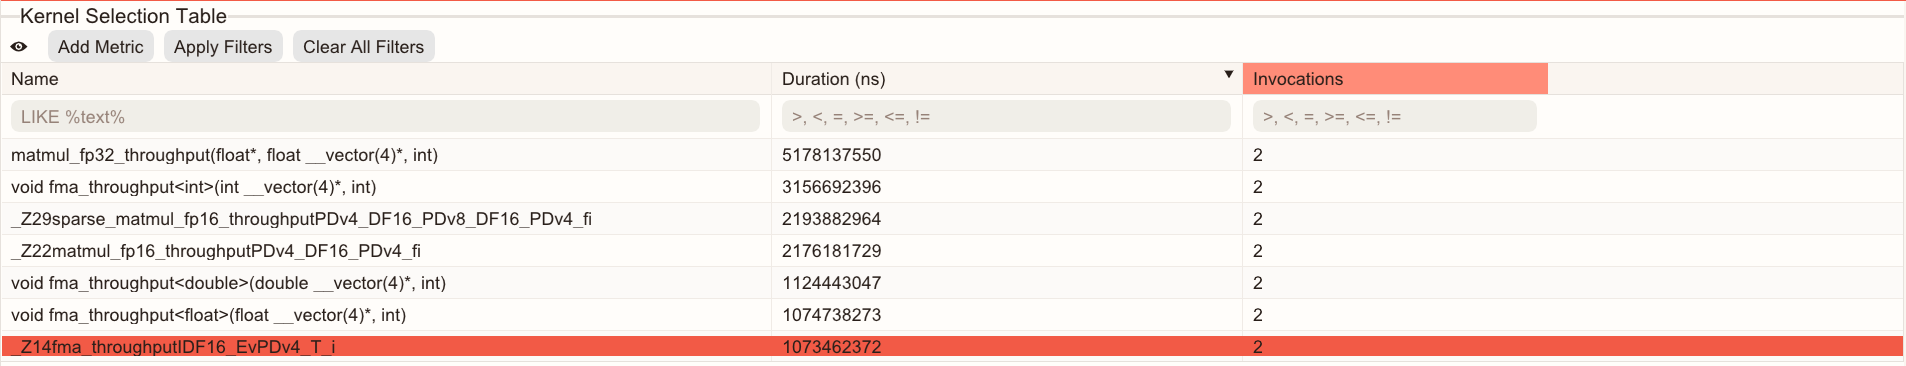
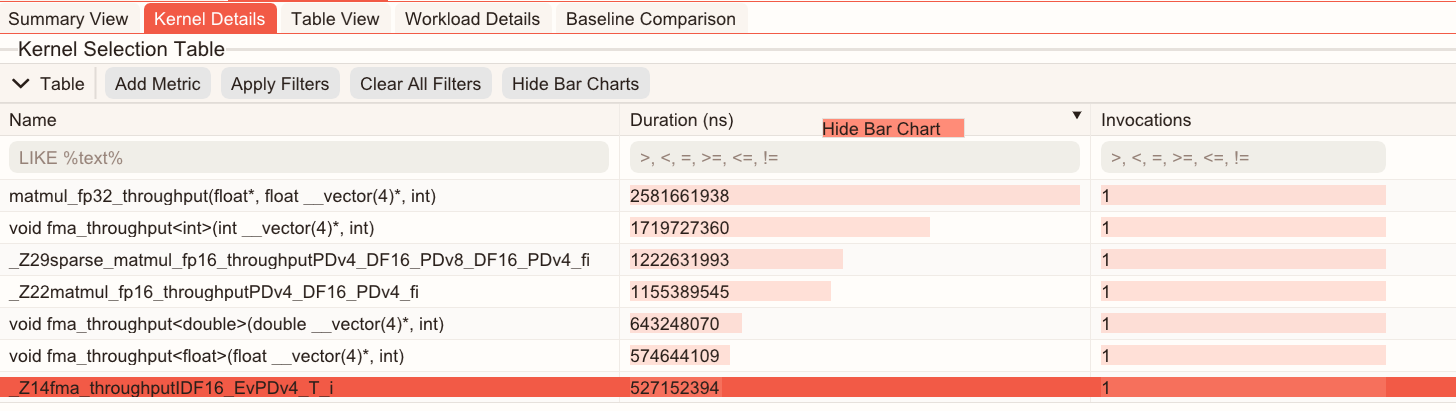
beta-0.4.0 changes

diff --git a/docs/how-to/view-analysis.rst b/docs/how-to/view-analysis.rst
@@ -41,8 +41,8 @@ Summary View
 
 The **Summary View** displays a high-level overview of the captured data. 
 
-Table
------
+Summary View -- Table
+---------------------
  
 The table in **Summary View** lists the top 10 longest-running kernels sorted by Total Execution Time. 
 The table displays kernel names, the number of invocations, and statistics including Total, Min, Max, Mean, Median durations.  
@@ -51,8 +51,8 @@ The table displays kernel names, the number of invocations, and statistics inclu
    :width: 800
    :align: center
 
-Charts
-------
+Summary View -- Charts
+----------------------
 
 Charts display as bar or pie charts.
 
@@ -77,8 +77,8 @@ The bar chart displays per-kernel metrics including the number of invocations, a
 
 Selected kernels are highlighted white in both charts.  
 
-Summary View Roofline Chart
----------------------------
+Summary View -- Roofline Chart
+------------------------------
 
 The chart plots kernel performance against empirical hardware ceilings to reveal the dominant performance bottleneck for all kernels.
 Showing where kernels are positioned relative to these rooflines helps determine whether performance is memory-bound or compute-bound, and identify the most impactful optimization direction. 
@@ -97,7 +97,29 @@ The information includes the Kernel name, Invocation(s), Duration, Arithmetic In
 
 There are also presets available to display information specific to a particular data type. 
 
+Roofline “Legend/Menu position” control: you can choose options to reposition the roofline legend/menu. 
+The options include: 
+
+- Inside, Top Left
+- Inside, Top Right
+- Inside, Bottom Left
+- Inside, Bottom Right
+- Outside (which pushes legend outside the plot area)
+
+.. image:: ../images/roofline-legend.png
+   :width: 800
+   :align: center
+
 .. _kernel-details:
+
+Summary View -- System Speed-of-Light
+-------------------------------------
+
+- Provides an aggregated, system-level summary of key performance and hardware utilization metrics across all kernels, highlighting utilization relative to architectural peak capabilities. 
+- The Summary View's System Speed-of-Light table includes the following columns: Metric ID, Metric Name, Average Value, Peak, Percent-of-Peak, and Unit. 
+- Metrics are aggregated across kernels to reflect overall application behavior rather than per-kernel performance. 
+- Use the Percent-of-Peak column to quickly identify whether execution is limited. Execution could be limited by compute, memory, or other hardware subsystems. 
+- Hover over a metric name to see a tooltip with a detailed description. 
 
 Kernel Details
 ==============
@@ -128,6 +150,9 @@ The **Kernel Selection Table** displays kernel information, including names and 
 - The Duration column enables you to sort (ascending or descending).  
 - Selecting a kernel through the **Kernel Selection Table** or kernel selector drop-down updates the Memory Chart, System Speed-of-Light, Kernel-level Roofline Analysis, and Table View accordingly. 
 - You can hide this table clicking |eye| to maximize space for charts.
+- To show or hide bar charts for metric values in the Kernel Selection Table, select Show Bar Charts or Hide Bar Charts.  
+- To show/hide bar charts for a specific metric, right-click the metric's column header and select Show Bar Chart or Hide Bar Chart. 
+- Hover over a clipped kernel name to view the full name in a tooltip. 
 
 Memory Chart
 ------------
@@ -188,6 +213,8 @@ Metrics are grouped into tabs that match compute categories, including:
 - L2 Cache 
 - L2 Cache (per channel) 
 
+To pin a metric for focused analysis, right-click the metric and select **Pin metric**. 
+
 .. _analysis-workload:
 
 Workload Details 
@@ -201,3 +228,48 @@ Workload Details
 .. image:: ../images/workload-details.png
    :width: 800
    :align: center
+
+Baseline Comparison
+===================
+
+The Baseline Comparison shows performance differences between two workload measurements (baseline and target) side by side. It is useful for scenarios such as: 
+
+- Comparing results before and after optimization or tuning changes. 
+- Measuring the impact of code, algorithm, or kernel changes. 
+- Evaluating the effect of environment updates. 
+- Validating performance stability across multiple runs. 
+
+Baseline Comparison presents a unified table of available metrics for both runs, making it easy to identify regressions, improvements, and other behavior changes. 
+
+Use the drop-down menus to select the baseline and target workload and kernel. The comparison table updates to show statistics for the selected selections. 
+
+You can also compare two kernels within the same workload.
+
+.. image:: ../images/baseline-comparison.png
+   :width: 800
+   :align: center
+
+Choose how metrics are displayed by selecting **Show Common Metrics** or **Show All Metrics**. You can also pin metrics for focused analysis. 
+
+For each metric, Baseline Comparison shows: 
+
+- Baseline statistics available in the database (for example, average, median, minimum, and maximum). 
+- Target statistics available in the database (for example, average, median, minimum, and maximum). 
+- The difference (delta) between baseline and target values. 
+- The percentage change between baseline and target values. 
+
+.. note::
+
+   To compare two runs in ROCm Optiq, both sets of analysis results must be present in the same database.
+
+To generate a database that contains multiple workloads with ROCm Compute Profiler for comparison, profile each workload and then run analysis with database output enabled: 
+
+.. code::
+
+   $ rocprof-compute profile -n <workload_name_1> -- <application> 
+   ... 
+   $ rocprof-compute profile -n <workload_name_N> -- <application> 
+
+   $ rocprof-compute analyze -p <path to workload_name_1> ... -p <path to workload_name_N> --output-format db 
+
+Copy the generated ``.db`` file to the host system and open it in ROCm Optiq. Then, go to the **Baseline Comparison** tab and select a baseline workload under **Workload:** and a target workload under **Compare With:**. Select a kernel for each workload to compare. 

diff --git a/docs/index.rst b/docs/index.rst
@@ -17,41 +17,46 @@ The component public repository is located at `https://github.com/ROCm/roc-optiq
 
   ROCm Optiq is in beta. Running production workloads is not recommended.
 
-ROCm Optiq 0.3.0 
-================
-
-Listed below are the incremental changes in this release compared to the previous release (`ROCm Optiq 0.2.0 <https://rocm.docs.amd.com/projects/roc-optiq/en/beta-0.2.0/index.html>`_).
+ROCm Optiq (Beta) 0.4.0 
+=======================
 
 Added
 -----
 
-ROCm Optiq for visualizing ROCm Compute Profiler's data. New features include:
+New visualization features for analysis data include: 
 
-- **Summary View**: Shows a high-level overview of the captured data.  
+- Summary View – Speed of Light: provides an aggregated, system-level summary of key performance and hardware utilization metrics across all kernels, showing utilization relative to architectural peak capabilities. The Percent-of-Peak values help quickly identify whether the workload is limited. 
+- Kernel Details - Kernel Selection Table: added bar chart visualization for values of metrics and a tooltip feature for displaying kernels’ full names. 
+- Baseline Comparison: enables you to compare two workload measurements (baseline vs. target) side by side in a unified table. It helps to quickly spot regressions, improvements, and behavior changes. It highlights per-metric deltas (including percentage change) to make the performance impact easy to quantify. 
+- Added support for ROCm compute profiler’s database schema 1.3 and related performance improvements. 
 
-  - **Table**: lists the ten longest-running kernels sorted by Total Execution Time. 
-  - **Charts**: Plot duration and invocation statistics across kernels. 
-  - **Roofline Chart**: plots kernel performance against empirical hardware ceilings to reveal the dominant performance bottleneck for all kernels.
+Other new features: 
 
-- **Kernel Details**: displays details of each kernel. 
-
-  - **Kernel Selection Table**: Lists kernels with GPU metrics. Use **Add Metric** to append additional GPU metric columns. Per-column search box accepts names or metric expressions (for example, ``metric > threshold``). Click **Apply Filters** to execute; combine multiple filters to narrow the analysis. 
-  - **Memory Chart**: Shows memory transactions and throughput per cache hierarchy level for the selected kernel. 
-  - **System Speed-of-Light**: Displays key kernel-level performance metrics with unit, average, peak, and percentage of peak values. 
-  - **Kernel Roofline Chart**: Shows a kernel-specific roofline analysis to determine whether a kernel is compute-bound or memory-bound. Click the gear icon to access customization options. 
-
-- **Table View**: provides a complete list of available metrics for the selected kernel.
-- **Workload Details**: Provides contextual information about the workload.
+- Data clean-up: remove metadata added by ROCm-Optiq in database file. 
+- Command line Interface support. 
+- OpenGL backend as a fallback when Vulkan is unavailable; optional software rendering path; command-line option to force a specific graphics backend. 
+- Dear ImGui updated (docking-capable line, ImPlot aligned); Linux session defaults to X11 for compatibility. 
+- Windows packages link GLFW statically by default (no separate glfw.dll in the installer). 
+- New settings panel allowing keyboard shortcuts to be customized. 
 
 Changed
 -------
 
-Changes in ROCm Optiq for visualizing ROCm System Profiler traces: 
+Changes in viewing analysis data include: 
 
-- System Topology tree was restructured to show both hardware and software topologies. 
-- Memory allocation activity tracks are now displayed in Timeline and System Topology Views. 
-- RPD files populate Topology. 
-- Multi-node support: Time normalization for multi-node configurations. 
+- Legend can be repositioned in Roofline charts of Summary View and Kernel Details; multi-workload chart fixes and top-kernels presentation updates. 
+- Kernel Details – Kernel Selection Table updates: Added mini-graphs in cells, pinned title/header improvements, and a global toggle for inline charts. Added tooltip for displaying clipped names and adjusted name-column sizing to free space for metrics. 
+
+Changes in viewing trace data include: 
+
+- Topology View and Timeline:  
+- Enhanced System Topology tree for better representation of hardware and software topologies.  
+- Toggle on device nodes to show or hide all tracks under that device. 
+
+Navigation and inspection:  
+
+- Go-to-event behavior across tables, flow panel, and call stack panel. Double-click or context menu to open the event on the timeline, with vertical track centering and highlight feedback.  
+- Highlight-on-navigate with a dedicated event path, pulsing indicator, and timed auto-clear; selection and highlight handled independently 
 
 .. tip::
 

diff --git a/docs/release.md b/docs/release.md
@@ -10,9 +10,48 @@
 
 | Version | Release date |
 | ------- | ------------ |
+| [Beta 0.4.0](https://rocm.docs.amd.com/projects/roc-optiq/en/beta-0.4.0/index.html) | May 6, 2026 |
 | [Beta 0.3.0](https://rocm.docs.amd.com/projects/roc-optiq/en/beta-0.3.0/index.html) | March 26, 2026 |
 | [Beta 0.2.0](https://rocm.docs.amd.com/projects/roc-optiq/en/beta-0.2.0/index.html) | February 11, 2026 |
 | [Beta 0.1.0](https://rocm.docs.amd.com/projects/roc-optiq/en/beta-0.1.0/index.html) | December 10, 2025 |
+
+## ROCm Optiq (Beta) 0.4.0 
+
+### Added
+
+New visualization features for analysis data include: 
+
+- Summary View – Speed of Light: provides an aggregated, system-level summary of key performance and hardware utilization metrics across all kernels, showing utilization relative to architectural peak capabilities. The Percent-of-Peak values help quickly identify whether the workload is limited. 
+- Kernel Details - Kernel Selection Table: added bar chart visualization for values of metrics and a tooltip feature for displaying kernels’ full names. 
+- Baseline Comparison: enables you to compare two workload measurements (baseline vs. target) side by side in a unified table. It helps to quickly spot regressions, improvements, and behavior changes. It highlights per-metric deltas (including percentage change) to make the performance impact easy to quantify. 
+- Added support for ROCm compute profiler’s database schema 1.3 and related performance improvements. 
+
+Other new features: 
+
+- Data clean-up: remove metadata added by ROCm-Optiq in database file. 
+- Command line Interface support. 
+- OpenGL backend as a fallback when Vulkan is unavailable; optional software rendering path; command-line option to force a specific graphics backend. 
+- Dear ImGui updated (docking-capable line, ImPlot aligned); Linux session defaults to X11 for compatibility. 
+- Windows packages link GLFW statically by default (no separate glfw.dll in the installer). 
+- New settings panel allowing keyboard shortcuts to be customized. 
+
+### Changed
+
+Changes in viewing analysis data include: 
+
+- Legend can be repositioned in Roofline charts of Summary View and Kernel Details; multi-workload chart fixes and top-kernels presentation updates. 
+- Kernel Details – Kernel Selection Table updates: Added mini-graphs in cells, pinned title/header improvements, and a global toggle for inline charts. Added tooltip for displaying clipped names and adjusted name-column sizing to free space for metrics. 
+
+Changes in viewing trace data include: 
+
+- Topology View and Timeline:  
+- Enhanced System Topology tree for better representation of hardware and software topologies.  
+- Toggle on device nodes to show or hide all tracks under that device. 
+
+Navigation and inspection:  
+
+- Go-to-event behavior across tables, flow panel, and call stack panel. Double-click or context menu to open the event on the timeline, with vertical track centering and highlight feedback.  
+- Highlight-on-navigate with a dedicated event path, pulsing indicator, and timed auto-clear; selection and highlight handled independently 
 
 ## ROCm Optiq (Beta) 0.3.0 
 

diff --git a/docs/how-to/view-trace.rst b/docs/how-to/view-trace.rst
@@ -87,8 +87,13 @@ The **System Topology View** displays a hierarchical representation of the hardw
    :width: 800
    :align: center
 
-- Click |eye| to show or hide tracks. 
+- Click |eye| to show or hide tracks. Hiding a higher-level element automatically hides all underlying queues, streams, and events.
 - Click |scroll| to go to the track in the :ref:`timeline`. 
+
+ROCm Optiq displays ROCm events in both Stream view and Queue view simultaneously: 
+
+- Stream view: Groups events (kernels and memory copies) by the HIP stream to which they were submitted. This view reflects your application's intended dependencies. 
+- Queue view: Groups the same events by the HSA queue to which they were scheduled. This view reflects what the runtime and hardware actually used. 
 
 .. _timeline:
 
@@ -196,6 +201,11 @@ This section provides an interface for multiple data perspectives, offering gran
 
 - **Sample Table**: Presents all performance counter data points associated with the selected tracks. Similar to the **Event Table**, it supports time-range selection and SQL-like query capabilities for detailed performance analysis. It supports the **Aggregate by Column** drop-down to group the results by the selected column.
 - **Event Details**: Shows extended information about the event that is not shown in the timeline or the **Event Table**. It shows raw database information such as timestamps, duration, associated queue/stream, correlation IDs, and API method parameters. It also shows flow, call stack information, and function call arguments, if available.  
+
+  - The Flow Data displays all events logically connected to the selected event in the execution sequence. You can navigate any of the connected events on the timeline, with vertical track centering and highlight feedback, by right clicking and choose Go To Event. The navigation makes it easier to follow execution flow across queues and tracks. 
+  - The Call Stack Data now shows the full call stack hierarchy for providing the calling context that led to that event. This provides understanding about where and why a kernel or function was invoked. The Call Stack Data is displayed in call order, following the execution path. 
+  - Known deficiency: For instrumented threads, some call stack information such as address, file, and PC is not available. 
+
 - **Track Details**: Shows additional information about the track that is not visible on the timeline. It shows the node the track belongs to and its details, the process it belongs to, and the track type (thread, counter, queue, and so on).
 - **Annotations**: Displays user-created annotations, enabling easier navigation across critical points within large traces, enhancing collaboration and knowledge sharing. See :ref:`annotation` for more info.
 

diff --git a/docs/reference/cli-support.rst b/docs/reference/cli-support.rst
@@ -1,0 +1,18 @@
+.. meta::
+  :description: Learn about the command-line support options in ROCm Optiq 
+  :keywords: ROCm Optiq, ROCm, command-line, cli
+
+*******************************
+ROCm Optiq command-line support
+*******************************
+
+This table lists the ROCm Optiq command-line options:
+
+======================  ================================================================================================  ============================================
+Command                 Description                                                                                       Example
+======================  ================================================================================================  ============================================
+``-h, --help ``         Display all supported command-line arguments.                                                     ``roc-optiq.exe -h`` 
+``-v, --version``       Print the installed ROCm Optiq version.                                                           ``roc-optiq.exe -v`` 
+``-f, --file``          Open a Trace or Project File.                                                                     ``roc-optiq.exe -f C:\traces\my_trace.db`` 
+``-b, --backend``       Force ROCm Optiq to use a specific rendering backend. Supported backends are Vulkan and OpenGL.
+======================  ================================================================================================  ============================================

diff --git a/docs/what-is-optiq.rst b/docs/what-is-optiq.rst
@@ -45,3 +45,4 @@ Key features include:
 - :ref:`kernel-details`: Focuses on individual kernels.  
 - :ref:`analysis-table`: Complete list of available metrics for the selected kernel. Metrics are grouped by category. 
 - :ref:`analysis-workload`: Contextual information about the profiled workload, including system information and profiling configuration. 
+- Baseline Comparison: A side-by-side view that compares two workload measurements (baseline vs. target) to quickly identify and assess performance regressions or improvements. 

diff --git a/docs/how-to/customize-views.rst b/docs/how-to/customize-views.rst
@@ -203,3 +203,9 @@ Persist the customizations made to tracks, bookmarks, and annotations by saving 
 
 - Select **File** > **Save As** to create a new project.
 - Select **File** > **Save** to overwrite the currently opened project.
+
+Data Cleanup in a project file 
+------------------------------
+
+You can remove metadata added by ROCm Optiq during processing trace data by selecting **File > Database > Full Cleanup**.
+
